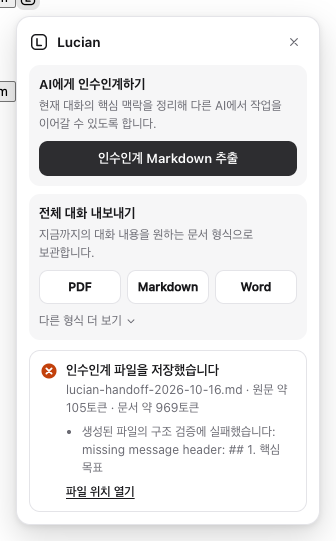
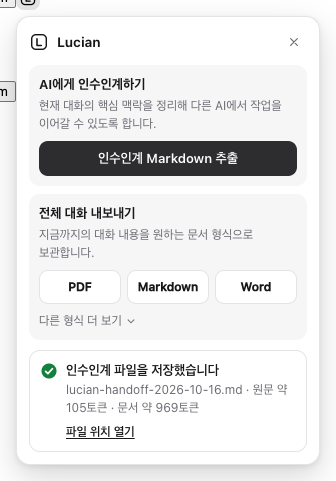
Handoff: verify structure with the renderer's own section titles
Sections are now numbered by content and empty ones are omitted, so the offscreen check that
looked for the old fixed headers marked every handoff as failed. The renderer exports
verifyHandoffMarkdown (required sections in order + references). E2E now fails on any failed
check for handoffs too, and requires level "ok" for the in-page flow.

diff --git a/src/offscreen/offscreen.ts b/src/offscreen/offscreen.ts
@@ -7,8 +7,9 @@ import type { BuildRequest, BuildResponse } from '../shared/messages';
 import type { Conversation, HandoffStats, JobTimings, VerificationCheck } from '../shared/types';
 import { formatDate } from '../shared/util';
 import { describeImage, EMBEDDABLE, type ImageStore, type StoredImage } from '../export/images';
-import { buildVerification, levelOf, verifyTextOutput } from '../export/verify';
+import { buildVerification, levelOf } from '../export/verify';
 import type { WorkerMessage } from '../handoff/worker';
+import { verifyHandoffMarkdown } from '../handoff/render';
 
 const urls = new Set<string>();
 
@@ -78,8 +79,9 @@ function runWorker(req: BuildRequest): Promise<Extract<WorkerMessage, { type: 'd
 async function buildHandoff(req: BuildRequest, conv: Conversation): Promise<BuildResponse> {
   const r = await runWorker(req);
   const bytes = new TextEncoder().encode(r.markdown);
-  const headers = r.lang === 'ko' ? ['## 0. 기본 정보', '## 1. 핵심 목표', '## 2. 확정된 주요 결정', '## 5. 현재 진행 상황', '## 부록'] : ['## 0. Source', '## 1. Core goal', '## 2. Confirmed decisions', '## 5. Current state', '## Appendix'];
-  const output = verifyTextOutput(bytes, headers);
+  // Sections are numbered in order and empty ones are left out, so the renderer checks its own
+  // structure (and the bytes must decode back to the same text).
+  const output = new TextDecoder('utf-8', { fatal: true }).decode(bytes) === r.markdown ? verifyHandoffMarkdown(r.markdown, r.lang) : { ok: false, detail: 'utf-8' };
   const verification = buildVerification(conv, 'handoff', { output, formatLabel: 'Markdown' });
   const extra: VerificationCheck[] = [];
   extra.push(

diff --git a/tests/e2e/extension.e2e.test.ts b/tests/e2e/extension.e2e.test.ts
@@ -237,6 +237,7 @@ describeIf('extension E2E (Chrome for Testing, mocked sites)', () => {
       expect(job.phase, `${site}: ${JSON.stringify(job.error)}`).toBe('done');
       expect(job.result?.filename, site).toMatch(/^lucian-handoff-\d{4}-\d{2}-\d{2}( \(\d+\))?\.md$/);
       expect(job.result?.verification.checks.some((c) => c.code === 'download.renamed')).toBe(false);
+      expect(job.result?.verification.level, `${site}: ${JSON.stringify(job.result?.verification.checks)}`).toBe('ok');
       expect(newestDownload('md', job.startedAt)).toMatch(/lucian-handoff-\d{4}-\d{2}-\d{2}( \(\d+\))?\.md$/);
       // The panel reports the result itself (UI language follows the browser: Korean or English;
       // headless Chrome on Linux ignores --lang for chrome.i18n).
@@ -278,6 +279,8 @@ describeIf('extension E2E (Chrome for Testing, mocked sites)', () => {
       expect(handoff).toMatch(/## (0\. 기본 정보|0\. Source)/);
       expect(handoff).toMatch(/\[#m1\]/);
       expect(h.job.result?.verification.checks.some((c) => c.code === 'download.ok' && c.status === 'pass')).toBe(true);
+      expect(h.job.result?.verification.checks.filter((c) => c.status === 'fail'), `${site}/handoff failed checks`).toEqual([]);
+      expect(h.job.result?.verification.checks.find((c) => c.code === 'output.ok')?.status).toBe('pass');
       writeFileSync(join(OUT, `${site}-handoff.md`), handoff);
       report.push({ site, kind: 'handoff', ms: h.ms, timings: h.job.timings, level: h.job.result?.verification.level });
       if (site === 'chatgpt') {

diff --git a/tests/handoff/accuracy.test.ts b/tests/handoff/accuracy.test.ts
@@ -1,5 +1,6 @@
 import { describe, expect, it } from 'vitest';
 import { runHandoff } from '../../src/handoff/engine';
+import { verifyHandoffMarkdown } from '../../src/handoff/render';
 import { englishScenario, koreanScenario, researchScenario, unrelatedChangeScenario } from '../fixtures/handoff-scenarios';
 import { parseChatGPTConversation } from '../../src/content/adapters/chatgpt';
 import { CHATGPT_ID, chatgptConversation } from '../fixtures/sites';
@@ -215,6 +216,17 @@ describe('handoff noise control — web-search research chat (user report, 2026-
     // Advice ("~확인해야 합니다") and descriptions of other projects are not the user's tasks.
     expect(section(md, '미완료 작업')).not.toMatch(/동기화 제한도 확인해야 합니다/);
     expect(section(md, '완료한 작업')).not.toMatch(/테마 12개를 자체 제작해 작성했습니다/);
+  });
+});
+
+describe('handoff structure check (verification report)', () => {
+  it('accepts every scenario in both languages and modes, and rejects a broken document', () => {
+    for (const c of [koreanScenario(), englishScenario(), unrelatedChangeScenario(), researchScenario()]) {
+      const r = runHandoff(c, { now: Date.UTC(2026, 9, 16) });
+      expect(verifyHandoffMarkdown(r.markdown, r.lang), `${c.title} (${r.stats.mode}, ${r.lang})`).toEqual({ ok: true });
+    }
+    const md = runHandoff(researchScenario()).markdown;
+    expect(verifyHandoffMarkdown(md.replace(/^## \d+\. 현재 진행 상황.*$/m, ''), 'ko').ok).toBe(false);
   });
 });
 

diff --git a/src/handoff/render.ts b/src/handoff/render.ts
@@ -470,3 +470,21 @@ export function renderHandoff(doc: HandoffDoc): string {
   out.push(`_${S.footer}_`);
   return `${out.join('\n')}\n`;
 }
+
+/**
+ * Structure check for the verification report: the sections every handoff has (others are left
+ * out when empty), in order, plus at least one message reference.
+ */
+export function verifyHandoffMarkdown(md: string, lang: 'ko' | 'en'): { ok: boolean; detail?: string } {
+  const S = L[lang];
+  const esc = (t: string) => t.replace(/[.*+?^${}()|[\]\\]/g, '\\$&');
+  let rest = md;
+  for (const title of [S.meta, S.goal, S.current, S.next]) {
+    const m = new RegExp(`^## \\d+\\. ${esc(title)}`, 'm').exec(rest);
+    if (!m) return { ok: false, detail: `missing section: ${title}` };
+    rest = rest.slice(m.index + m[0].length);
+  }
+  if (!new RegExp(`^## \\d+\\. (${esc(S.transcript)}|${esc(S.recent)})`, 'm').test(rest)) return { ok: false, detail: `missing section: ${S.transcript}` };
+  if (!/\[#m\d+\]/.test(md)) return { ok: false, detail: 'missing message references' };
+  return { ok: true };
+}

diff --git a/docs/test-report.md b/docs/test-report.md
@@ -19,7 +19,7 @@
 
 | 구분 | 방법 | 결과 |
 |---|---|---|
-| 단위 테스트 | `npm test` (Vitest, 4개 파일) | **56 / 56 통과** |
+| 단위 테스트 | `npm test` (Vitest, 4개 파일) | **57 / 57 통과** |
 | E2E | `npm run test:e2e`: Chrome for Testing에 확장을 올리고, CDP로 4개 사이트를 흉내 낸 모의 응답을 주고, 실제 팝업과 **답변 아래 Lucian 버튼**을 클릭해 실제 다운로드 파일을 검사. 파일 이름을 가로채는 다운로드 관리 확장을 함께 설치한 상태 | **9 / 9 통과** |
 | 1M 토큰 전체 흐름 | 같은 E2E 안에서 1,000,570토큰(3,782개 메시지) ChatGPT 대화 | 인수인계 생성 **0.50초** (요구치 10초 이하) |
 | 실제 서비스 | 로그인된 Chrome에서 읽기 전용 스니펫으로 4개 서비스의 내부 API 응답 구조와 DOM 구조 확인 | 4개 서비스 모두 API 경로 동작, 바뀐 부분 5곳 발견·수정 (§6). v1.1: 답변 도구 막대 위치 4곳 확인, ChatGPT 검색 답변 형식 변경 발견·수정 (§6.1) |
@@ -27,7 +27,7 @@
 | 정적 검사 | `tsc --noEmit`, ESLint, 빌드 결과물의 `eval`/`new Function` 검사 | 통과 |
 | CI | GitHub Actions (ubuntu-latest, Node 24): 위 검사 + 단위 테스트 + 패키징 + E2E(Chrome for Testing stable, 1M 포함) | 통과 |
 
-## 3. 단위 테스트 (56개)
+## 3. 단위 테스트 (57개)
 
 - **어댑터 (13개)**: URL에서 대화 ID 추출(ChatGPT 프로젝트·GPT 경로, Gemini `/u/1`·Gem 경로 포함). 4개 서비스의 파서를 합성 fixture로 검사합니다.
   - ChatGPT: `current_node` 경로 복원, 숨김·시스템·도구 호출 노드 건너뛰기, 도구 노드를 한 답변으로 병합, 이미지 포인터·첨부·thinking·코드·Canvas, 인용 마커를 링크로 변환, 코드의 탭 보존, 재생성 답변을 다른 분기로 보존, **2026-10 추론 모델 형식**(commentary 채널, container.exec, web.run, reasoning_recap), **2026-10 검색 답변 형식**(`<Cite>`→인용 링크, `<Link>`, `<box>`·`<row>` 등 화면용 마크업 제거·들여쓰기 정리, 코드 안은 보존, 인용한 출처만 문서에 넣고 117개 미인용 검색 결과는 `moreSources`, 추적 파라미터 제거, 검증 문구)
@@ -35,7 +35,7 @@
   - Gemini: batchexecute 프레임 파싱, cursor 페이지 넘김(오래된 순서), 표, 이미지
   - Grok: 최신 분기 선택, `partial` 노드 제외, `<grok:render>` 인용 변환(인용한 결과만 출처 목록)
 - **DOM 대체 경로 (1개)**: 2026-10 ChatGPT 화면 구조에서 사용자 줄바꿈 보존, 화면낭독기 전용 라벨 제외, 코드 블록 언어 보존
-- **인수인계 정확도 (24개)**: 요구된 시나리오를 그대로 넣었습니다.
+- **인수인계 정확도 (25개)**: 요구된 시나리오를 그대로 넣었습니다.
   - 한국어 시나리오(Electron 제안 → Tauri로 확정):
     - 최신 결정(Tauri)은 현재 결정으로, 바뀐 결정(Electron)은 “이전 결정”으로 분리합니다.
     - 오래됐지만 중요한 결정을 남깁니다.
@@ -49,6 +49,7 @@
   - 짧은 대화는 원문 전체 포함
   - 증분 캐시
   - thinking이 인수인계 문서(참조 색인 포함)에 새지 않음
+  - 검증 보고서용 구조 검사가 모든 시나리오(한국어·영어, 전체·압축)를 통과시키고, 섹션이 빠진 문서는 거부함
   - **잡음 제어 (사용자 보고 반영, 6개)**: 웹 검색 대화에서 미인용 검색 결과·출처 목록·추적 파라미터가 들어가지 않음, 링크는 같은 페이지를 하나로 합치고 제목을 붙임, 표가 항목 줄로 납작해지지 않고 출처 칩이 빠짐, 같은 문장이 두 섹션에 나오지 않음, 원문 안 제목이 문서 목차보다 낮은 단계로 내려가고 빈 섹션이 빠짐, 요청 흐름·미해결 문제·“남은 핵심은 …” 다음 작업이 맞는 섹션에 들어가고 조언(“~확인해야 합니다”)이나 다른 프로젝트 설명은 할 일·완료로 오인하지 않음
 - **내보내기 (18개)**: Markdown 코드 펜스(백틱 포함 코드), 표·수식·링크·이미지, thinking 제외, KaTeX MathML과 실패 보고, TXT 평탄화.
   - md/txt/json/html/docx/hwpx/zip 7개 형식을 모두 만들고 검증 결과가 사실과 맞는지(빠진 이미지는 경고) 확인합니다.
@@ -95,6 +96,7 @@ E2E로 찾아 고친 버그:
 - 인수인계 참조 색인에 thinking 첫 줄이 나오던 문제
 - ZIP 검증 문구에서 첨부 개수가 바이트(“0 B/1개”)로 표시되던 문제
 - (v1.1) 패널 상태를 갱신할 때마다 전체를 다시 그려 키보드 포커스가 사라지고 Esc가 먹지 않던 문제
+- (v1.1) 섹션 번호를 내용에 따라 매기도록 바꾼 뒤, 인수인계 구조 검증이 예전 섹션 제목을 찾아 **실패로 표시**하던 문제. 사이트별 인수인계 E2E도 이제 내보내기처럼 `fail` 검사가 하나도 없어야 통과합니다.
 
 ### 외부 도구로 결과 파일 검사
 
